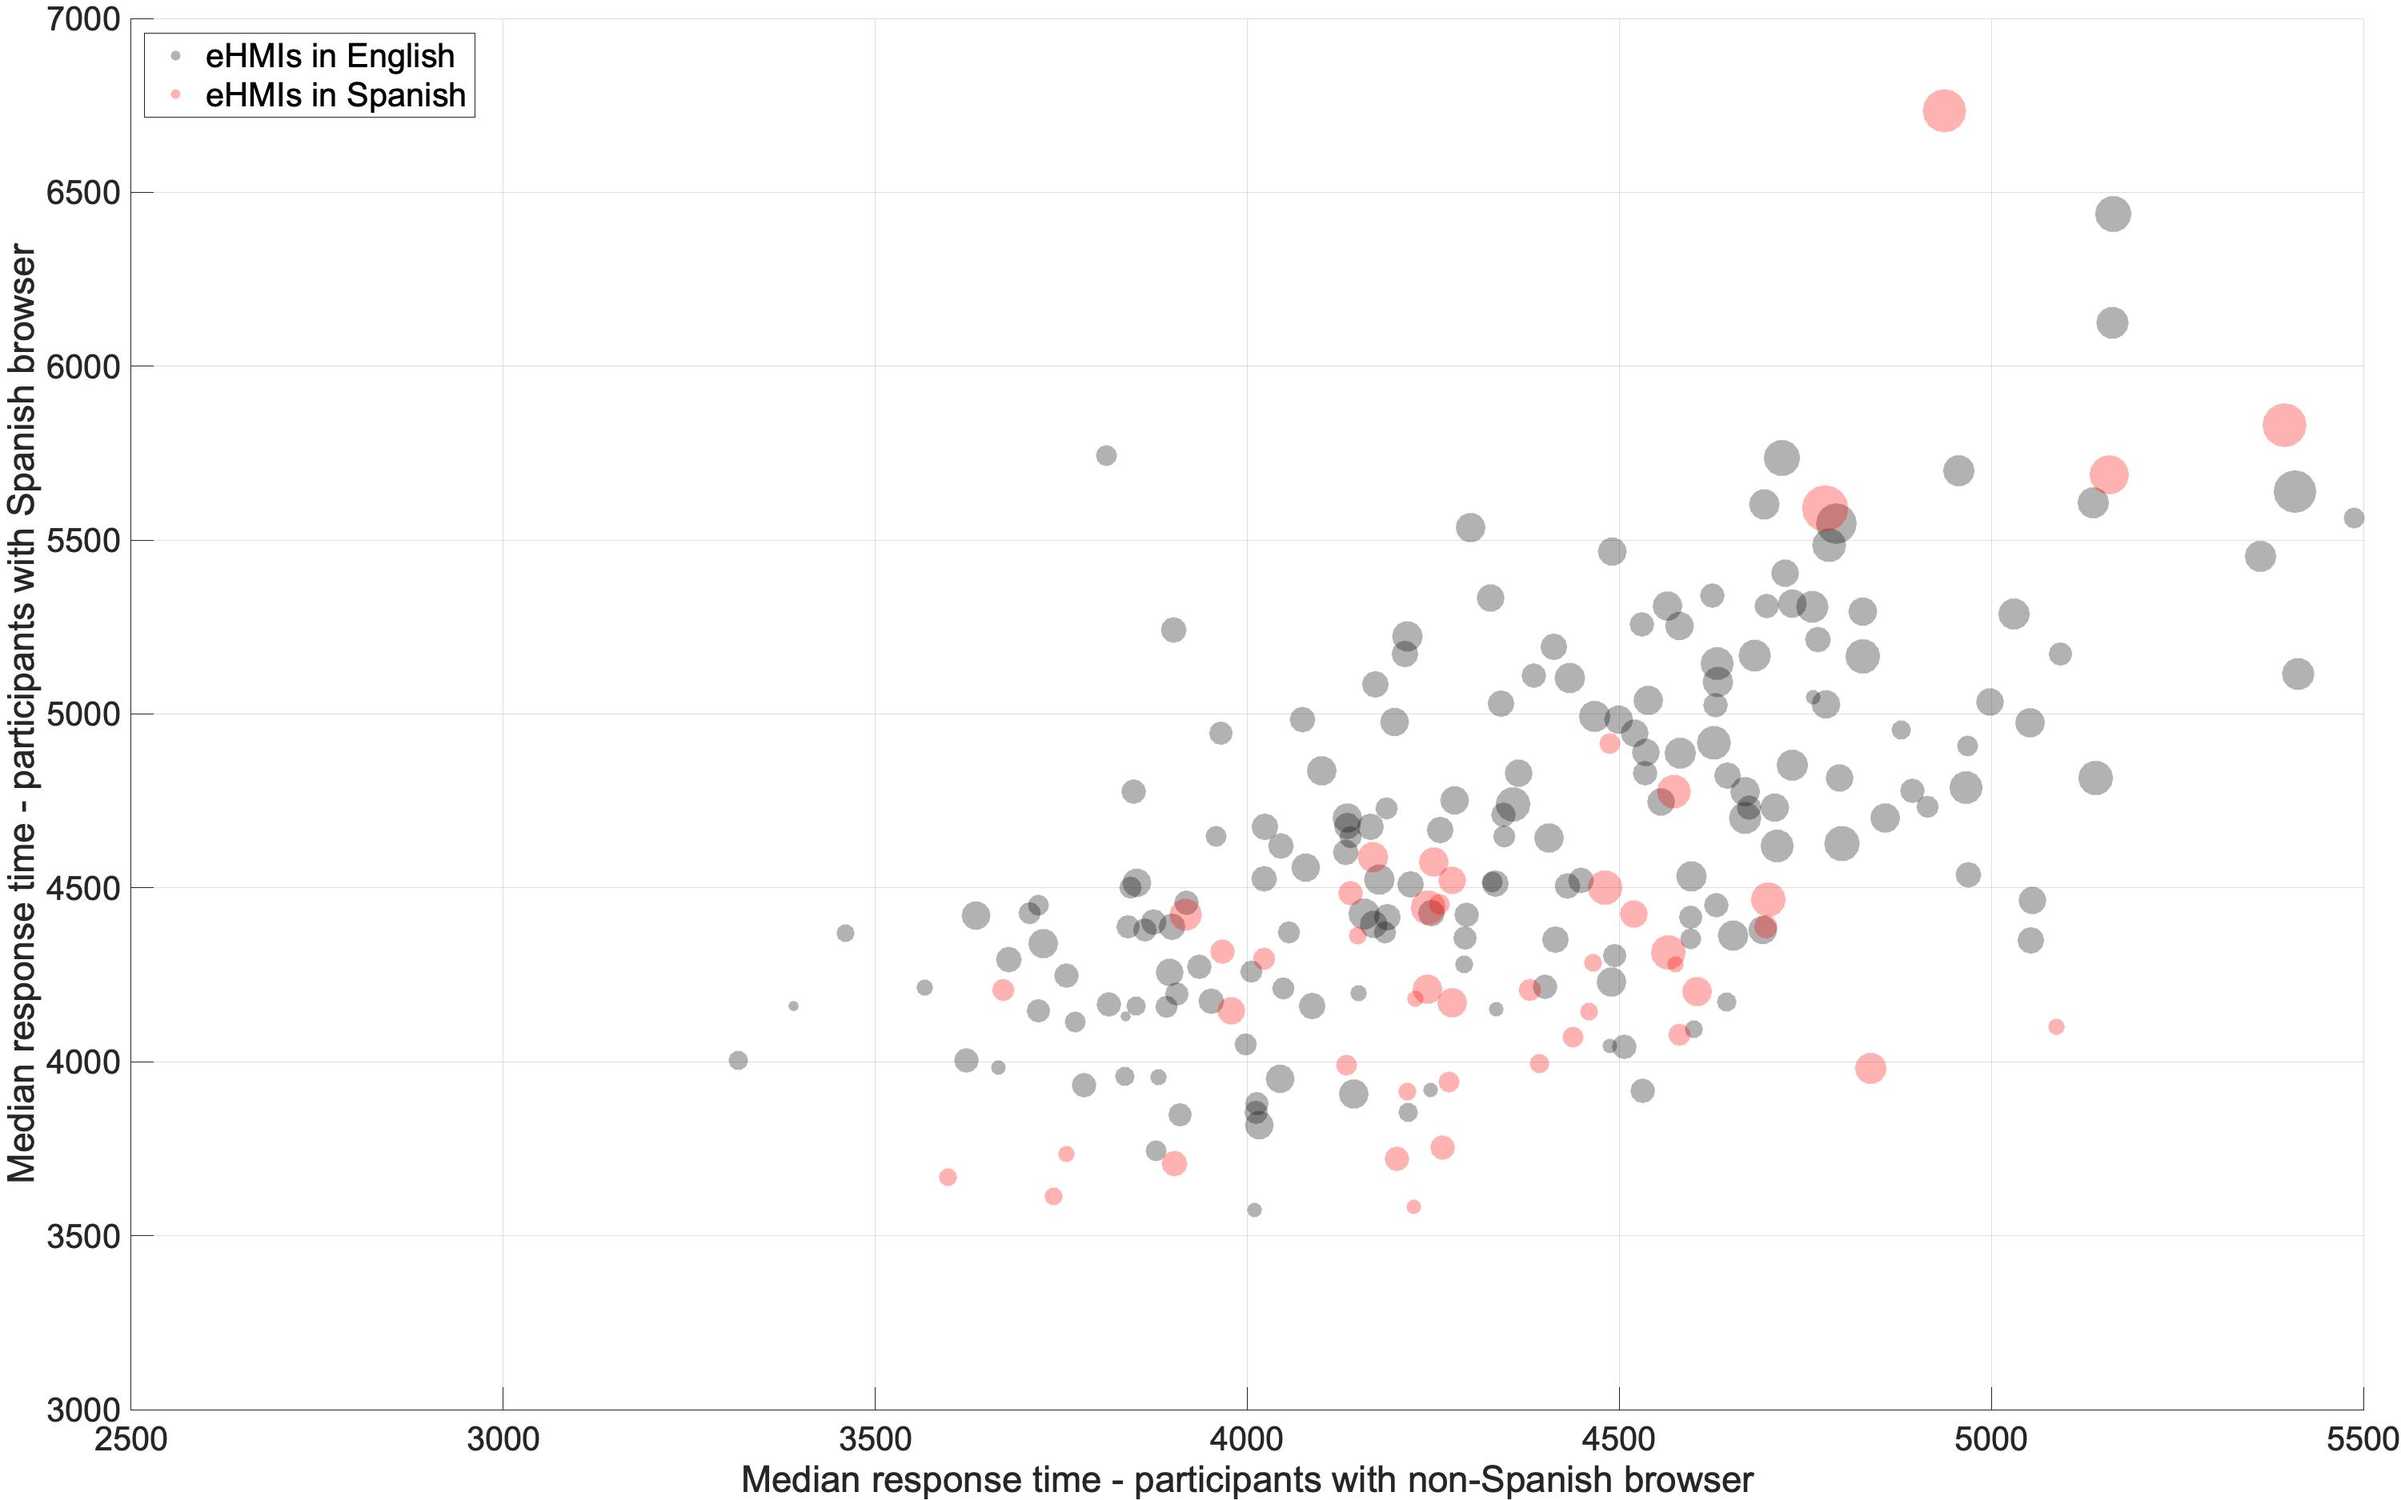
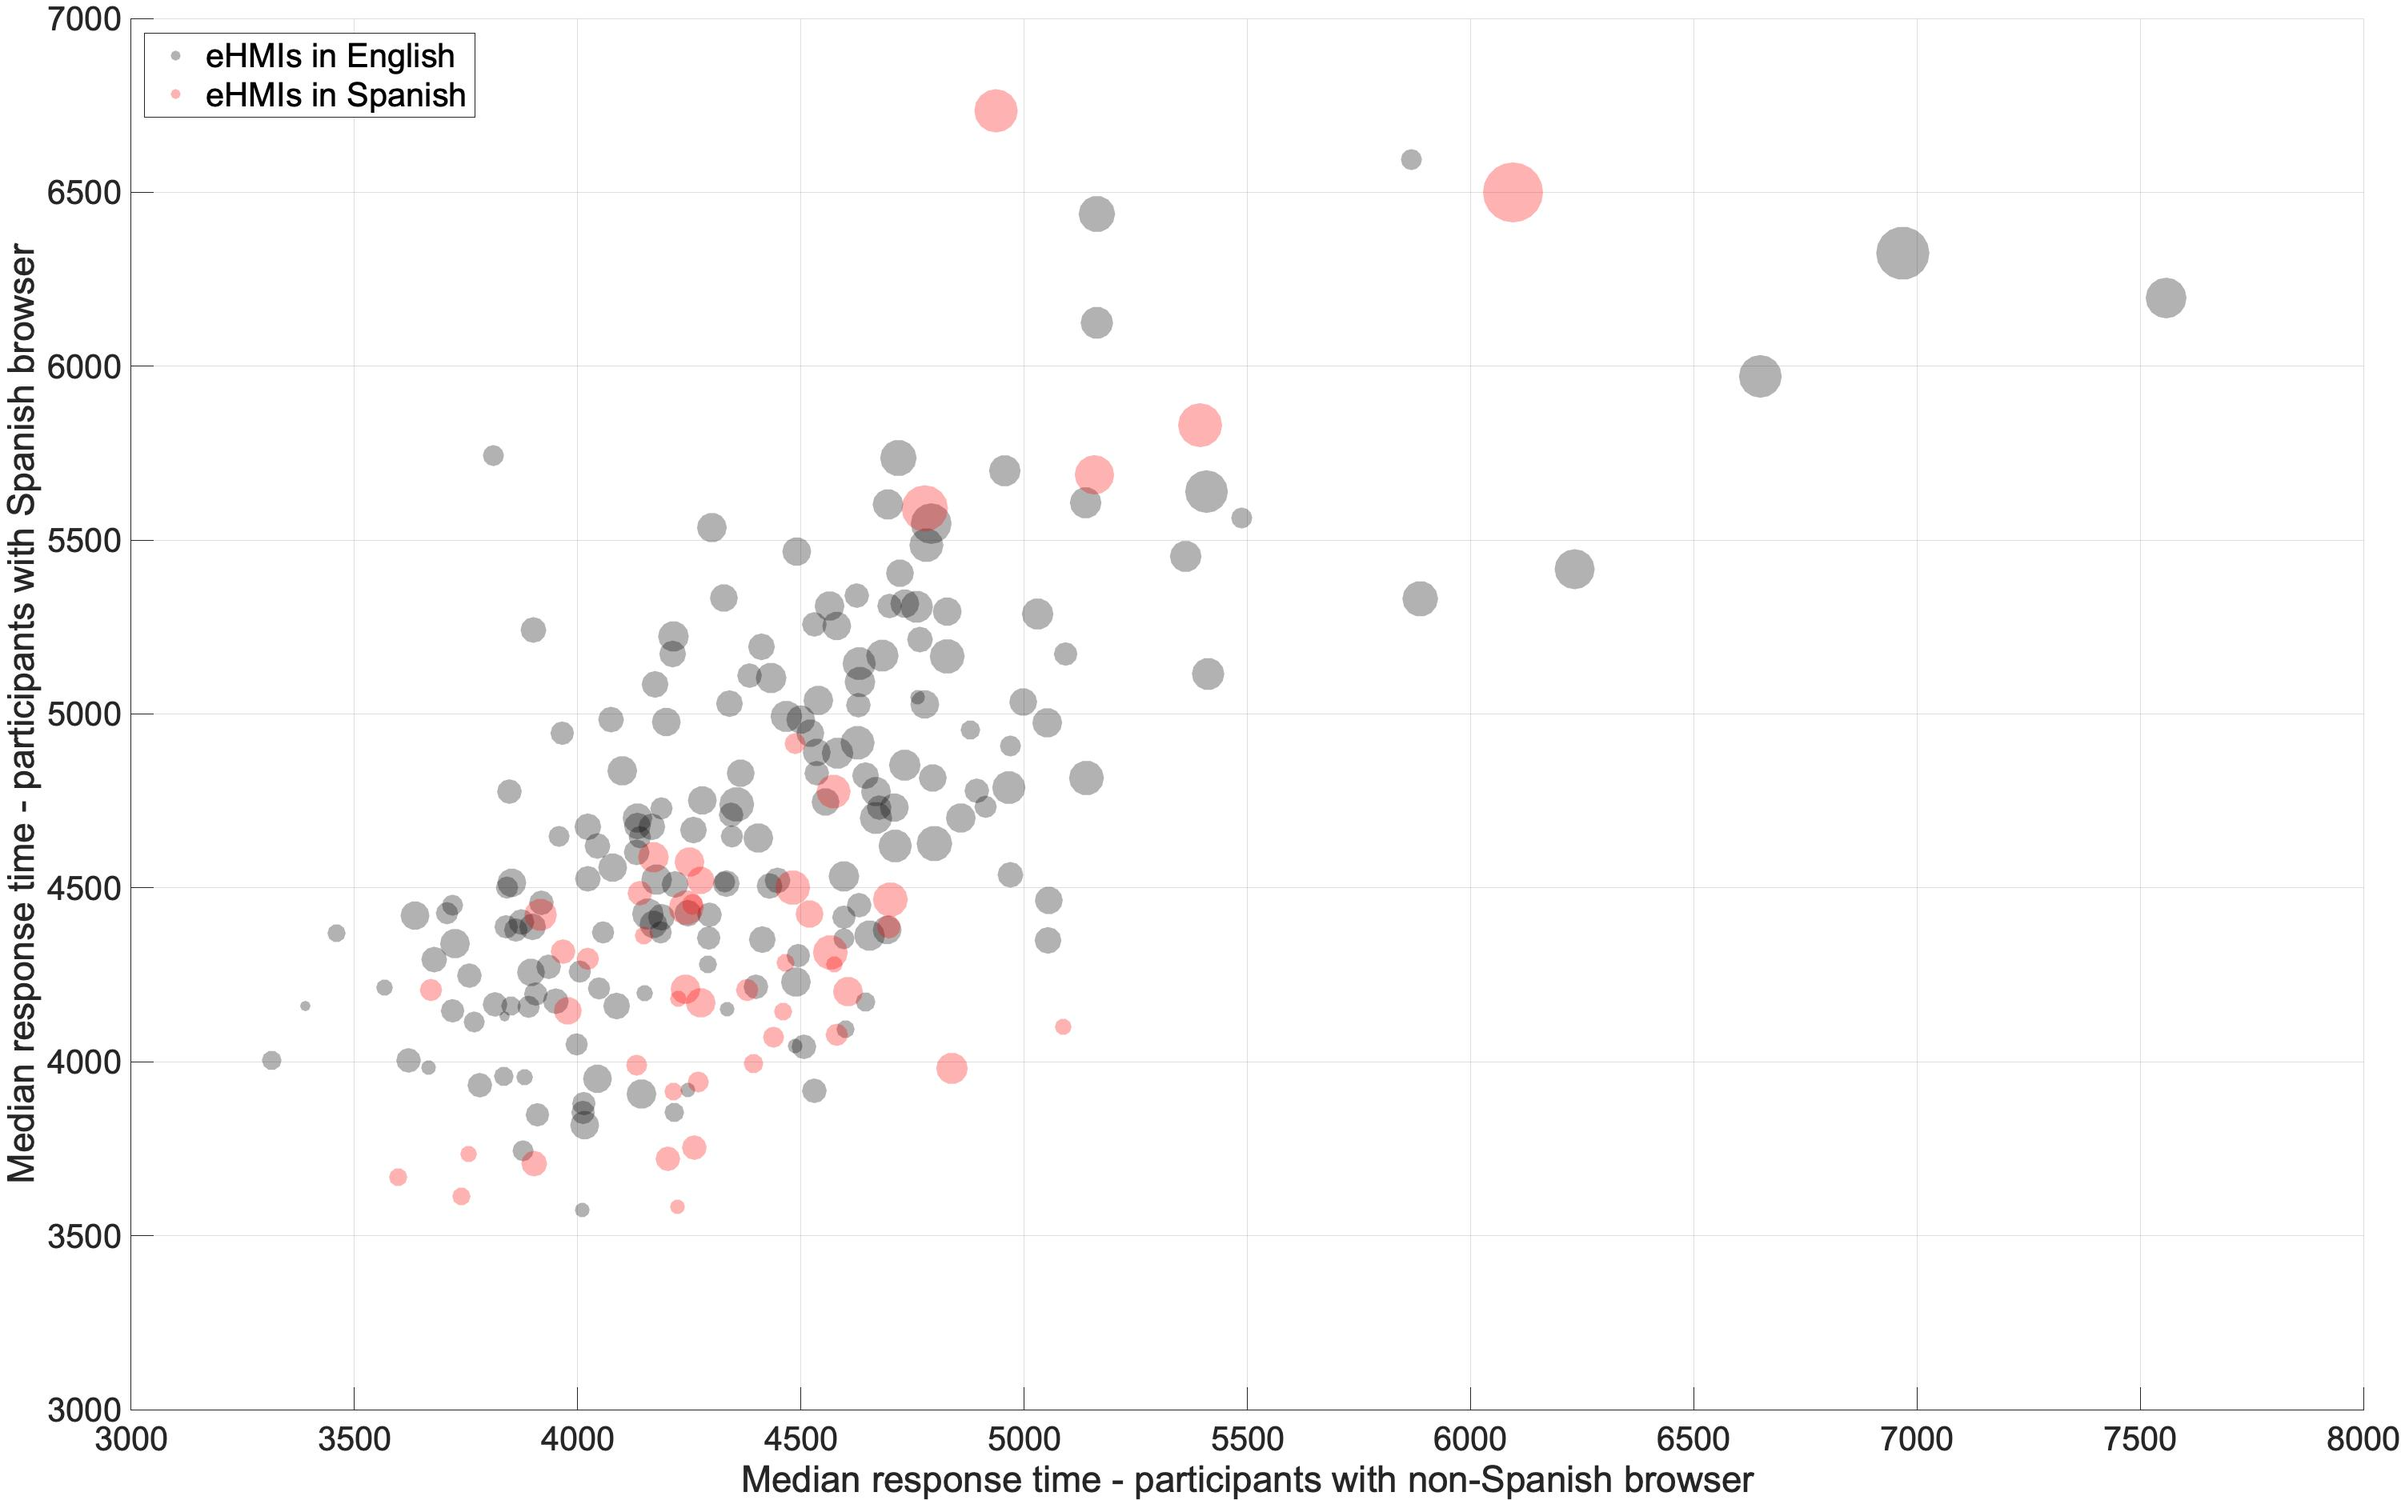
Updated limits in scatter plots

diff --git a/textehmi/analysis/analysis.m b/textehmi/analysis/analysis.m
@@ -500,7 +500,6 @@ legend(h, {'eHMIs in English' 'eHMIs in Spanish'}, ...
 h=findobj('FontName', 'Helvetica');
 set(h, 'FontSize', 20, 'Fontname','Arial')
 set(gca, 'LooseInset', [0.01 0.01 0.01 0.01], ...
-    'xlim', [2500 5500], ...
     'ylim', [3000 7000])
 % maximise and export as eps and jpg (for readme)
 if config.save_figures
@@ -539,7 +538,7 @@ legend(h, {'eHMIs in English' 'eHMIs in Spanish'}, ...
 h=findobj('FontName', 'Helvetica');
 set(h, 'FontSize', 20, 'Fontname', 'Arial')
 set(gca, 'LooseInset', [0.01 0.01 0.01 0.01], ...
-    'ylim', [3000 6500])
+    'ylim', [3000 7000])
 % maximise and export as eps and jpg (for readme)
 if config.save_figures
     export_figure(gcf, [config.path_output filesep 'figures' ...
